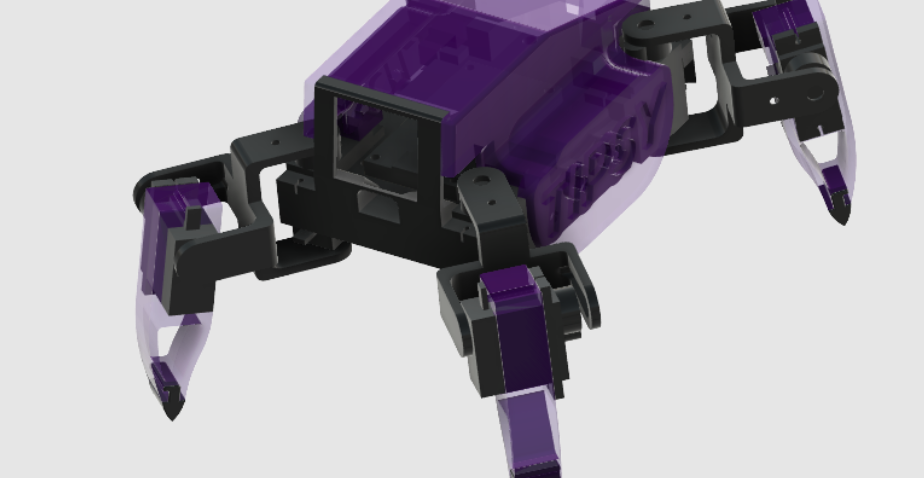
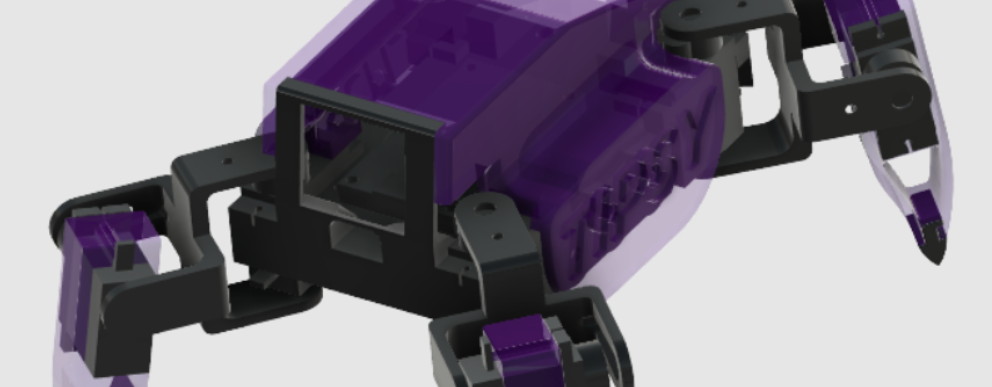
updating tipsy.html

diff --git a/projects/tipsy.html b/projects/tipsy.html
@@ -353,7 +353,7 @@
   -->
   <div class="cover-area">
   <div class="cover-main">
-    <img src="../images/tipsy-main.jpg" alt="Main image">
+    <img src="../images/tipsy-main3.png" alt="Main image">
   </div>
   <div class="cover-side">
     <div class="cover-thumb">
